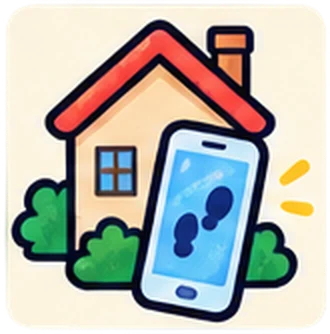
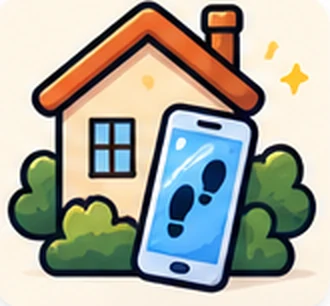
MiniMystery: nieuwe artwork en wat volwassener stijl (navy/goud, rustiger kaarten)
Claude-Session: https://claude.ai/code/session_01HiSgNEAJNe1VAC56DkNSFs

diff --git a/minimystery/shared/hub.css b/minimystery/shared/hub.css
@@ -1,102 +1,100 @@
-/* MiniMystery – hub (NL + EN). Zonnig, rond, kinderboek. */
-:root{--ink:#1f2a44;--cream:#fff7e8;--sun:#ffc21a;--coral:#ff6b6b;--mint:#3ccfa8;--sky:#4fb3ff;--grape:#8b5cf6;--card:#ffffff;--soft:#5b6680}
+/* MiniMystery – hub (NL + EN). Warm en zonnig, maar wat volwassener: navy, goud, blauw en violet. */
+:root{--ink:#1b2550;--navy:#22327a;--cream:#fbf6ec;--gold:#f5b800;--sky:#3a9be6;--violet:#7a5cd6;--coral:#e0584f;--card:#fff;--soft:#5a6385;--line:rgba(27,37,80,.14)}
 *{box-sizing:border-box}
-html{-webkit-text-size-adjust:100%}
-body{margin:0;background:var(--cream) url(../assets/pattern.webp) center top/420px repeat;color:var(--ink);font:500 17px/1.5 Nunito,system-ui,sans-serif;overflow-x:hidden}
+html{-webkit-text-size-adjust:100%;scroll-behavior:smooth}
+body{margin:0;background:linear-gradient(rgba(251,246,236,.86),rgba(251,246,236,.86)),var(--cream) url(../assets/pattern.webp) center top/380px repeat;color:var(--ink);font:500 17px/1.55 Nunito,system-ui,sans-serif;overflow-x:hidden}
 a{color:inherit}
 h1,h2,h3,.btn,.pill,.chip{font-family:Fredoka,Nunito,system-ui,sans-serif}
 .skip{position:absolute;left:-999px}.skip:focus{left:16px;top:16px;z-index:9;background:#fff;padding:8px 12px;border-radius:10px}
 
 /* bovenbalk */
 .top{position:absolute;inset:0 0 auto;z-index:3;display:flex;justify-content:flex-end;align-items:center;padding:14px 16px;max-width:1100px;margin:0 auto}
-.top img{height:44px;width:auto;filter:drop-shadow(0 2px 0 rgba(31,42,68,.15))}
-.pill{appearance:none;border:2.5px solid var(--ink);background:#fff;color:var(--ink);border-radius:999px;padding:6px 14px;font-weight:600;font-size:15px;text-decoration:none;cursor:pointer;box-shadow:0 3px 0 var(--ink)}
-.pill:active{transform:translateY(2px);box-shadow:0 1px 0 var(--ink)}
+.pill{appearance:none;border:2px solid var(--ink);background:rgba(255,255,255,.92);color:var(--ink);border-radius:999px;padding:5px 14px;font-weight:600;font-size:15px;text-decoration:none;cursor:pointer}
+.pill:hover{background:#fff}
 
 /* hero */
-.hero{position:relative;min-height:min(92vh,760px);display:flex;flex-direction:column;justify-content:flex-end;overflow:hidden;border-bottom:4px solid var(--ink)}
-.hero picture,.hero picture img{position:absolute;inset:0;width:100%;height:100%;object-fit:cover;object-position:60% 40%}
-.hero::after{content:"";position:absolute;inset:0;background:linear-gradient(180deg,rgba(255,247,232,0) 45%,rgba(255,247,232,.6) 80%,var(--cream) 100%)}
-.hero .in{position:relative;z-index:2;max-width:1100px;width:100%;margin:0 auto;padding:0 16px 34px;text-align:center}
-.hero .card{background:rgba(255,247,232,.94);border:3px solid var(--ink);border-radius:28px;padding:16px 16px 18px;box-shadow:0 6px 0 var(--ink);max-width:560px;margin:0 auto}
-.hero .logo{width:min(72vw,360px);height:auto;display:block;margin:0 auto 6px;filter:drop-shadow(0 4px 0 rgba(31,42,68,.18));animation:bob 4s ease-in-out infinite}
-.hero h1{font-size:clamp(26px,5.6vw,42px);line-height:1.12;margin:6px auto 8px;max-width:22ch}
-.hero p.lead{margin:0 auto 18px;max-width:40ch;font-size:18px;color:#2e3a58}
-@keyframes bob{50%{transform:translateY(-6px) rotate(-1deg)}}
-@media (min-width:860px){.hero{min-height:620px}.hero .in{text-align:left;padding-bottom:56px}.hero .card{margin:0}.hero .prof{justify-content:flex-start}.hero .logo{margin:0 0 6px}.hero h1,.hero p.lead{margin-left:0}
-  .hero::after{background:linear-gradient(180deg,rgba(255,247,232,0) 70%,var(--cream) 100%)}}
+.hero{position:relative;min-height:min(92vh,760px);display:flex;flex-direction:column;justify-content:flex-end;overflow:hidden}
+.hero picture,.hero picture img{position:absolute;inset:0;width:100%;height:100%;object-fit:cover;object-position:55% 35%}
+.hero::after{content:"";position:absolute;inset:0;background:linear-gradient(180deg,rgba(251,246,236,0) 50%,rgba(251,246,236,.5) 82%,var(--cream) 100%)}
+.hero .in{position:relative;z-index:2;max-width:1100px;width:100%;margin:0 auto;padding:0 16px 30px;text-align:center}
+.hero .card{background:rgba(255,255,255,.94);border:2px solid var(--line);border-radius:22px;padding:18px 18px 20px;box-shadow:0 18px 40px -18px rgba(27,37,80,.45);max-width:540px;margin:0 auto;backdrop-filter:blur(6px)}
+.hero .logo{width:min(70vw,330px);height:auto;display:block;margin:0 auto 4px}
+.hero h1{font-weight:600;font-size:clamp(25px,5.2vw,38px);line-height:1.15;margin:4px auto 8px;max-width:22ch;color:var(--navy)}
+.hero p.lead{margin:0 auto 18px;max-width:42ch;font-size:17.5px;color:#39436a}
+@media (min-width:860px){.hero{min-height:640px}.hero .in{text-align:left;padding-bottom:60px}.hero .card{margin:0}.hero .logo{margin:0 0 4px}.hero h1,.hero p.lead{margin-left:0}.hero .prof{justify-content:flex-start}
+  .hero::after{background:linear-gradient(180deg,rgba(251,246,236,0) 72%,var(--cream) 100%)}}
 
-.btn{display:inline-flex;align-items:center;justify-content:center;gap:8px;appearance:none;border:3px solid var(--ink);background:var(--sun);color:var(--ink);border-radius:18px;padding:13px 22px;font-weight:700;font-size:18px;text-decoration:none;cursor:pointer;box-shadow:0 5px 0 var(--ink);transition:transform .08s}
-.btn:active{transform:translateY(3px);box-shadow:0 2px 0 var(--ink)}
+.btn{display:inline-flex;align-items:center;justify-content:center;gap:8px;appearance:none;border:2px solid var(--ink);background:var(--gold);color:var(--ink);border-radius:14px;padding:12px 22px;font-weight:600;font-size:17.5px;text-decoration:none;cursor:pointer;box-shadow:0 3px 0 var(--ink);transition:transform .08s,background .15s}
+.btn:hover{background:#ffc823}
+.btn:active{transform:translateY(2px);box-shadow:0 1px 0 var(--ink)}
 .btn.ghost{background:#fff}
 .btn.dk{width:100%;margin-top:10px}
-.btn:focus-visible,.pill:focus-visible{outline:3px dashed var(--grape);outline-offset:3px}
+.btn:focus-visible,.pill:focus-visible,.more:focus-visible{outline:3px solid var(--sky);outline-offset:3px}
 
 main{max-width:1100px;margin:0 auto;padding:0 16px}
-.sec{padding:34px 0 8px}
-.sec>h2{font-size:clamp(24px,4.6vw,32px);margin:0 auto 8px;text-align:center;width:fit-content;background:var(--sun);border:3px solid var(--ink);border-radius:999px;padding:4px 22px;box-shadow:0 4px 0 var(--ink)}
-.sec>p.sub{margin:0 auto 22px;text-align:center;color:var(--ink);max-width:46ch;background:rgba(255,247,232,.92);border-radius:14px;padding:4px 10px}
-.status{background:rgba(255,247,232,.92);border-radius:12px;width:fit-content;margin-left:auto!important;margin-right:auto!important;padding:2px 10px}
-.foot p{background:rgba(255,247,232,.92);border-radius:12px;display:inline-block;padding:2px 10px}
+.sec{padding:40px 0 8px}
+.sec>.kick{display:block;text-align:center;font:600 13px Fredoka,sans-serif;letter-spacing:.14em;text-transform:uppercase;color:var(--violet);margin:0 0 4px}
+.sec>h2{font-weight:600;font-size:clamp(25px,4.4vw,32px);margin:0 auto 6px;text-align:center;color:var(--navy)}
+.sec>p.sub{margin:0 auto 24px;text-align:center;color:var(--soft);max-width:46ch}
 
 /* profiel */
-.prof{display:flex;flex-wrap:wrap;justify-content:center;gap:8px;margin:18px 0 0}
-.chip{display:inline-flex;align-items:center;gap:6px;background:#fff;border:2.5px solid var(--ink);border-radius:999px;padding:5px 12px;font-weight:600;font-size:15px}
-.chip b{color:var(--grape)}
+.prof{display:flex;flex-wrap:wrap;justify-content:center;gap:8px;margin:16px 0 0}
+.chip{display:inline-flex;align-items:center;gap:6px;background:var(--cream);border:1.5px solid var(--line);border-radius:999px;padding:4px 12px;font-weight:500;font-size:14.5px;color:var(--soft)}
+.chip b{color:var(--navy);font-weight:600}
 
 /* zaken */
 .cases{display:grid;gap:22px;grid-template-columns:1fr}
 @media (min-width:720px){.cases{grid-template-columns:repeat(3,1fr)}}
-.case{--c:var(--sun);position:relative;background:var(--card);border:3px solid var(--ink);border-radius:26px;padding:20px 18px 18px;box-shadow:0 7px 0 var(--ink);display:flex;flex-direction:column;text-align:center}
-.case::before{content:"";position:absolute;inset:0 0 auto;height:92px;background:var(--c);border-radius:23px 23px 0 0;border-bottom:3px solid var(--ink)}
-.case .cov{position:relative;width:150px;height:150px;border-radius:50%;border:4px solid var(--ink);margin:4px auto 12px;object-fit:cover;background:#fff;box-shadow:0 5px 0 rgba(31,42,68,.25)}
-.case:hover .cov{animation:wig .5s ease}
-@keyframes wig{30%{transform:rotate(-5deg) scale(1.03)}70%{transform:rotate(4deg) scale(1.03)}}
-.case h3{font-size:23px;line-height:1.15;margin:0 0 6px}
-.case .tag{margin:0 0 10px;font-weight:700;color:#2e3a58}
-.case .desc{margin:0 0 14px;color:var(--soft);font-size:15.5px;flex:1}
-.case .meta{display:flex;flex-wrap:wrap;justify-content:center;gap:6px;margin:0 0 14px;padding:0;list-style:none}
-.case .meta li{font:600 13.5px Fredoka,sans-serif;background:var(--cream);border:2px solid var(--ink);border-radius:999px;padding:2px 10px}
-.case .meta li.star{background:#fff3c4}
-.case .btn{width:100%}
-.case .more{appearance:none;background:none;border:0;color:var(--soft);font:600 14px Nunito,sans-serif;text-decoration:underline;cursor:pointer;margin:0 auto 10px;padding:2px}
+.case{--c:var(--gold);position:relative;background:var(--card);border:2px solid var(--line);border-radius:22px;padding:18px 18px 18px;box-shadow:0 14px 30px -20px rgba(27,37,80,.55);display:flex;flex-direction:column;text-align:center;overflow:hidden;transition:transform .2s,box-shadow .2s}
+.case:hover{transform:translateY(-3px);box-shadow:0 20px 36px -20px rgba(27,37,80,.6)}
+.case::before{content:"";position:absolute;inset:0 0 auto;height:84px;background:var(--c)}
+.case .cov{position:relative;width:140px;height:140px;border-radius:50%;border:4px solid #fff;margin:6px auto 12px;object-fit:cover;background:#fff;box-shadow:0 6px 16px -6px rgba(27,37,80,.5)}
+.case h3{font-weight:600;font-size:22px;line-height:1.2;margin:0 0 6px;color:var(--navy)}
+.case .tag{margin:0 0 12px;font-weight:600;color:#39436a;font-size:16px}
+.case .desc{margin:0 0 14px;color:var(--soft);font-size:15px;flex:1;text-align:left}
+.case .meta{display:flex;flex-wrap:wrap;justify-content:center;gap:6px;margin:0 0 12px;padding:0;list-style:none}
+.case .meta li{font:500 13px Nunito,sans-serif;background:var(--cream);border:1.5px solid var(--line);border-radius:999px;padding:2px 10px;color:var(--soft)}
+.case .meta li.star{color:#9a6b00;background:#fff4d1}
+.case .btn{width:100%;margin-top:auto}
+.case .more{appearance:none;background:none;border:0;color:var(--soft);font:600 14px Nunito,sans-serif;text-decoration:underline;text-underline-offset:3px;cursor:pointer;margin:0 auto 12px;padding:2px}
 .case .desc[hidden]{display:none}
 
 /* hoe werkt het */
 .how{display:grid;grid-template-columns:repeat(2,1fr);gap:14px;list-style:none;padding:0;margin:0}
 @media (min-width:860px){.how{grid-template-columns:repeat(4,1fr)}}
-.how li{background:#fff;border:3px solid var(--ink);border-radius:22px;padding:14px 12px 16px;text-align:center;box-shadow:0 5px 0 var(--ink)}
-.how img{width:88px;height:88px;object-fit:contain;display:block;margin:0 auto 6px}
-.how b{display:block;font:700 18px Fredoka,sans-serif;margin-bottom:4px}
-.how span{font-size:14.5px;color:var(--soft);line-height:1.4;display:block}
+.how li{background:#fff;border:2px solid var(--line);border-radius:20px;padding:14px 12px 16px;text-align:center}
+.how img{width:92px;height:auto;display:block;margin:0 auto 8px;border-radius:14px}
+.how b{display:block;font:600 18px Fredoka,sans-serif;margin-bottom:4px;color:var(--navy)}
+.how span{font-size:14.5px;color:var(--soft);line-height:1.45;display:block}
 
 /* tips voor ouders */
-.tips{background:#fff;border:3px solid var(--ink);border-radius:24px;padding:18px 20px;box-shadow:0 5px 0 var(--ink);margin:6px 0 0}
-.tips ul{margin:0;padding-left:20px}.tips li{margin:6px 0}
+.tips{background:#fff;border:2px solid var(--line);border-left:6px solid var(--gold);border-radius:18px;padding:16px 20px;margin:16px 0 0}
+.tips ul{margin:0;padding-left:20px;color:#39436a}.tips li{margin:6px 0}
 
 /* pro */
-.probox{background:linear-gradient(160deg,#fff 0,#fff 55%,#efe7ff 100%);border:3px solid var(--ink);border-radius:26px;padding:20px;box-shadow:0 7px 0 var(--ink);max-width:620px;margin:0 auto}
-.eyebrow{font:700 13px Fredoka,sans-serif;letter-spacing:.08em;text-transform:uppercase;color:var(--grape);margin:10px 0 4px}
-.probox h2,.paper h2{font-size:24px;margin:0 0 8px}
-.probox p,.paper p{margin:0 0 12px}
-.inp{width:100%;font:700 18px Fredoka,monospace;letter-spacing:.06em;text-transform:uppercase;border:3px solid var(--ink);border-radius:14px;padding:11px 14px;background:var(--cream);color:var(--ink)}
+.probox{background:#fff;border:2px solid var(--line);border-radius:22px;padding:20px;box-shadow:0 14px 30px -20px rgba(27,37,80,.55);max-width:600px;margin:0 auto}
+.eyebrow{font:600 13px Fredoka,sans-serif;letter-spacing:.12em;text-transform:uppercase;color:var(--violet);margin:10px 0 4px}
+.probox h2,.paper h2{font-weight:600;font-size:23px;margin:0 0 8px;color:var(--navy)}
+.probox p,.paper p{margin:0 0 12px;color:#39436a}
+.inp{width:100%;font:600 18px Fredoka,monospace;letter-spacing:.06em;text-transform:uppercase;border:2px solid var(--line);border-radius:12px;padding:11px 14px;background:var(--cream);color:var(--ink)}
+.inp:focus{outline:none;border-color:var(--sky)}
 .note{font-size:14.5px;color:var(--soft)}
-.status{text-align:center;margin:12px 0 0}
+.status{text-align:center;margin:14px 0 0}
 
 /* voet */
-.foot{max-width:1100px;margin:40px auto 0;padding:26px 16px 40px;text-align:center;border-top:3px dashed rgba(31,42,68,.25)}
-.foot img{width:64px;height:auto}
+.foot{max-width:1100px;margin:46px auto 0;padding:28px 16px 40px;text-align:center;border-top:1.5px solid var(--line)}
+.foot img{width:76px;height:auto}
 .foot p{margin:8px 0;color:var(--soft);font-size:15px}
-.foot a{font-weight:700}
-.foot .links{display:flex;justify-content:center;flex-wrap:wrap;gap:8px 18px;margin-top:12px}
-.foot button{appearance:none;background:none;border:0;font:700 15px Nunito,sans-serif;color:var(--ink);text-decoration:underline;cursor:pointer}
-.adult{display:inline-flex;align-items:center;gap:8px;margin-top:6px;background:#1f2a44;color:#fff7e8;border-radius:999px;padding:8px 16px;text-decoration:none;font:600 15px Fredoka,sans-serif}
+.foot a{font-weight:600}
+.foot .links{display:flex;justify-content:center;flex-wrap:wrap;gap:8px 18px;margin-top:14px}
+.foot button{appearance:none;background:none;border:0;font:600 15px Nunito,sans-serif;color:var(--ink);text-decoration:underline;cursor:pointer}
+.adult{display:inline-flex;align-items:center;gap:8px;margin-top:6px;background:var(--ink);color:var(--cream);border-radius:999px;padding:8px 16px;text-decoration:none;font:500 15px Fredoka,sans-serif}
 
 /* vel */
-.sheet{position:fixed;inset:0;z-index:20;background:rgba(31,42,68,.55);display:flex;align-items:flex-end;justify-content:center;padding:0}
+.sheet{position:fixed;inset:0;z-index:20;background:rgba(27,37,80,.5);display:flex;align-items:flex-end;justify-content:center}
 .sheet[hidden]{display:none}
-.paper{background:#fff;width:100%;max-width:560px;max-height:88vh;overflow:auto;border:3px solid var(--ink);border-bottom:0;border-radius:26px 26px 0 0;padding:20px 20px calc(20px + env(safe-area-inset-bottom))}
-@media (min-width:600px){.sheet{align-items:center;padding:16px}.paper{border-bottom:3px solid var(--ink);border-radius:26px}}
-#toast{position:fixed;left:50%;bottom:22px;transform:translateX(-50%);z-index:30;background:var(--ink);color:#fff;border-radius:16px;padding:10px 16px;font-weight:700;max-width:calc(100% - 32px)}
+.paper{background:#fff;width:100%;max-width:560px;max-height:88vh;overflow:auto;border-radius:22px 22px 0 0;padding:20px 20px calc(20px + env(safe-area-inset-bottom))}
+@media (min-width:600px){.sheet{align-items:center;padding:16px}.paper{border-radius:22px}}
+#toast{position:fixed;left:50%;bottom:22px;transform:translateX(-50%);z-index:30;background:var(--ink);color:#fff;border-radius:14px;padding:10px 16px;font-weight:600;max-width:calc(100% - 32px)}
 #toast[hidden]{display:none}
-@media (prefers-reduced-motion:reduce){.hero .logo,.case:hover .cov{animation:none}}
+@media (prefers-reduced-motion:reduce){.case,.case:hover{transition:none;transform:none}}

diff --git a/minimystery/shared/catalog.js b/minimystery/shared/catalog.js
@@ -3,6 +3,6 @@
    access: "free" | "trial" (eerste zaak gratis, daarna Pro) | "pro" · theme = accentkleur van de tegel op de hub */
 window.MW_CATALOG={
   games:[
-  { "id": "sj", "status": "live", "access": "trial", "minutes": "45–75", "km": "0–2", "group": false, "en": { "slug": "en/the-light-thief.html", "title": "The Light Thief", "tag": "He stole every light in the street. Catch him, collect eight lights, see who he is.", "desc": "At 03:03 the lights went out and the present was gone. The Light Thief hides at eight places nearby: catch him with photos, group poses and catching games and he drops a light out of fright. Eight lights in your lantern show his face. Then into his hideout to find the present. With a map in your own streets, without one, or indoors." }, "nl": { "slug": "de-lichtjesdief.html", "title": "De Lichtjesdief", "tag": "Hij stal alle lichtjes van de straat. Vang hem, verzamel er acht, zie wie hij is.", "desc": "Om 03:03 gingen de lichten uit en was het cadeau weg. De Lichtjesdief zit op acht plekken in de buurt: vang hem met foto's, groepsposes en vangspellen en hij laat van schrik een lichtje vallen. Acht lichtjes in je lantaarn tonen zijn gezicht. Dan zijn schuilplaats in en het cadeau vinden. Met kaart in je eigen buurt, zonder kaart, of binnen." }, "theme": "#8b5cf6" }, { "id": "pp", "status": "live", "access": "trial", "minutes": "40–60", "km": "0–2", "group": false, "en": { "slug": "en/the-secret-of-pony-fluff.html", "title": "The Secret of Pony Fluff", "tag": "Pony Fluff is gone. Five animal witnesses, one has it wrong. Where is she?", "desc": "Fluff's stable is empty and the gate was open. The group follows eight hoof prints: finding tracks in the sand, the binoculars, grooming, counting apples, the halter colours, the crow's shinies, petting Kato the cat and crossing the meadow. No reading needed: the phone reads aloud. Traces are true, one animal gets it wrong (or lies, at Rider level). Then choose where Fluff is, hear the secret of the open gate, and get a Rider's Passport with the group's own photos. With a map, without one, or indoors." }, "nl": { "slug": "het-geheim-van-pony-pluis.html", "title": "Het Geheim van Pony Pluis", "tag": "Pony Pluis is weg. Vijf dieren-getuigen, één zit ernaast. Waar is ze?", "desc": "De stal van Pluis is leeg en het hek stond open. De groep volgt acht hoefafdrukken: sporen zoeken in het zand, de verrekijker, roskammen, appels tellen, de halsterkleuren, de glimmertjes van de kraai, kat Kato aaien en de wei door. Lezen hoeft niet: de telefoon leest voor. Sporen zijn waar, één dier zit ernaast (of liegt, op niveau Ruiter). Dan kiezen waar Pluis is, het geheim van het open hek horen en een Ruiterpaspoort met de eigen foto's van de groep. Met kaart, zonder kaart of binnen." }, "theme": "#ff6b6b" }, { "id": "ag", "status": "live", "access": "trial", "minutes": "40–60", "km": "0–2", "group": false, "en": { "slug": "en/officer-for-a-day.html", "title": "Officer for a Day", "tag": "Playing police, age 6 and up. The Balloon Bandit has escaped.", "desc": "Sworn in as officers, the group follows eight leads: fingerprints, a composite sketch, footprints, the siren, binoculars, the radio, a chase and a crowd. No reading needed: the phone reads aloud. Evidence is true, one witness lies. Then the line-up in 3D, handcuffs, a police diploma and a WANTED poster with the group's own photos. With a map, without one, or indoors." }, "nl": { "slug": "agent-voor-een-dag.html", "title": "Agent voor Eén Dag", "tag": "Politie spelen, vanaf 6 jaar. De Ballonnenboef is ontsnapt.", "desc": "Beëdigd als agenten volgt de groep acht sporen: vingerafdruk, compositietekening, voetspoor, sirene, verrekijker, portofoon, achtervolging en de drukte. Lezen hoeft niet: de telefoon leest voor. Bewijs is waar, één getuige liegt. Dan de confrontatie in 3D, handboeien, een politiediploma en een GEZOCHT-poster met de eigen foto's van de groep. Met kaart, zonder kaart of binnen." }, "theme": "#4fb3ff" }
+  { "id": "sj", "status": "live", "access": "trial", "minutes": "45–75", "km": "0–2", "group": false, "en": { "slug": "en/the-light-thief.html", "title": "The Light Thief", "tag": "He stole every light in the street. Catch him, collect eight lights, see who he is.", "desc": "At 03:03 the lights went out and the present was gone. The Light Thief hides at eight places nearby: catch him with photos, group poses and catching games and he drops a light out of fright. Eight lights in your lantern show his face. Then into his hideout to find the present. With a map in your own streets, without one, or indoors." }, "nl": { "slug": "de-lichtjesdief.html", "title": "De Lichtjesdief", "tag": "Hij stal alle lichtjes van de straat. Vang hem, verzamel er acht, zie wie hij is.", "desc": "Om 03:03 gingen de lichten uit en was het cadeau weg. De Lichtjesdief zit op acht plekken in de buurt: vang hem met foto's, groepsposes en vangspellen en hij laat van schrik een lichtje vallen. Acht lichtjes in je lantaarn tonen zijn gezicht. Dan zijn schuilplaats in en het cadeau vinden. Met kaart in je eigen buurt, zonder kaart, of binnen." }, "theme": "#5b44b8" }, { "id": "pp", "status": "live", "access": "trial", "minutes": "40–60", "km": "0–2", "group": false, "en": { "slug": "en/the-secret-of-pony-fluff.html", "title": "The Secret of Pony Fluff", "tag": "Pony Fluff is gone. Five animal witnesses, one has it wrong. Where is she?", "desc": "Fluff's stable is empty and the gate was open. The group follows eight hoof prints: finding tracks in the sand, the binoculars, grooming, counting apples, the halter colours, the crow's shinies, petting Kato the cat and crossing the meadow. No reading needed: the phone reads aloud. Traces are true, one animal gets it wrong (or lies, at Rider level). Then choose where Fluff is, hear the secret of the open gate, and get a Rider's Passport with the group's own photos. With a map, without one, or indoors." }, "nl": { "slug": "het-geheim-van-pony-pluis.html", "title": "Het Geheim van Pony Pluis", "tag": "Pony Pluis is weg. Vijf dieren-getuigen, één zit ernaast. Waar is ze?", "desc": "De stal van Pluis is leeg en het hek stond open. De groep volgt acht hoefafdrukken: sporen zoeken in het zand, de verrekijker, roskammen, appels tellen, de halsterkleuren, de glimmertjes van de kraai, kat Kato aaien en de wei door. Lezen hoeft niet: de telefoon leest voor. Sporen zijn waar, één dier zit ernaast (of liegt, op niveau Ruiter). Dan kiezen waar Pluis is, het geheim van het open hek horen en een Ruiterpaspoort met de eigen foto's van de groep. Met kaart, zonder kaart of binnen." }, "theme": "#d9574f" }, { "id": "ag", "status": "live", "access": "trial", "minutes": "40–60", "km": "0–2", "group": false, "en": { "slug": "en/officer-for-a-day.html", "title": "Officer for a Day", "tag": "Playing police, age 6 and up. The Balloon Bandit has escaped.", "desc": "Sworn in as officers, the group follows eight leads: fingerprints, a composite sketch, footprints, the siren, binoculars, the radio, a chase and a crowd. No reading needed: the phone reads aloud. Evidence is true, one witness lies. Then the line-up in 3D, handcuffs, a police diploma and a WANTED poster with the group's own photos. With a map, without one, or indoors." }, "nl": { "slug": "agent-voor-een-dag.html", "title": "Agent voor Eén Dag", "tag": "Politie spelen, vanaf 6 jaar. De Ballonnenboef is ontsnapt.", "desc": "Beëdigd als agenten volgt de groep acht sporen: vingerafdruk, compositietekening, voetspoor, sirene, verrekijker, portofoon, achtervolging en de drukte. Lezen hoeft niet: de telefoon leest voor. Bewijs is waar, één getuige liegt. Dan de confrontatie in 3D, handboeien, een politiediploma en een GEZOCHT-poster met de eigen foto's van de groep. Met kaart, zonder kaart of binnen." }, "theme": "#2f72d6" }
  ]
 };

diff --git a/minimystery/index.html b/minimystery/index.html
@@ -20,20 +20,20 @@
 <meta property="og:image" content="https://www.minimystery.nl/assets/og-image.jpg">
 <meta property="og:locale" content="nl_NL">
 <meta name="twitter:card" content="summary_large_image">
-<meta name="theme-color" content="#ffc21a">
+<meta name="theme-color" content="#f5b800">
 <link rel="preload" as="image" href="assets/hero.webp" media="(max-width:859px)">
 <link rel="preload" as="image" href="assets/hero-wide.webp" media="(min-width:860px)">
 <link rel="stylesheet" href="https://fonts.googleapis.com/css2?family=Fredoka:wght@500;600;700&family=Nunito:wght@500;700&display=swap">
-<link rel="stylesheet" href="shared/hub.css?v=2">
+<link rel="stylesheet" href="shared/hub.css?v=3">
 <script type="application/ld+json">{"@context":"https://schema.org","@type":"WebSite","name":"MiniMystery","url":"https://www.minimystery.nl/","inLanguage":"nl","description":"Speurtochten voor kinderfeestjes: een dief vangen, een pony terugvinden of een dag agent zijn. Puzzels op de telefoon, foto-opdrachten en een diploma om te printen. Met kaart in je eigen buurt, zonder kaart of binnen. Eerste zaak gratis."}</script>
 </head>
 <body>
 <a class="skip" href="#cases">Kies je zaak</a>
 <header class="hero">
-  <picture><source media="(min-width:860px)" srcset="assets/hero-wide.webp"><img src="assets/hero.webp" alt="" width="800" height="854"></picture>
+  <picture><source media="(min-width:860px)" srcset="assets/hero-wide.webp"><img src="assets/hero.webp" alt="" width="786" height="984"></picture>
   <div class="top"><a class="pill" id="lang" href="en/" hreflang="en">English</a></div>
   <div class="in"><div class="card">
-    <img class="logo" src="assets/logo-wide.webp" alt="MiniMystery" width="1190" height="326">
+    <img class="logo" src="assets/logo-wide.webp" alt="MiniMystery" width="1222" height="378">
     <h1>Een speurtocht voor het kinderfeestje, in je eigen straat</h1>
     <p class="lead">Kies een zaak, pak één telefoon en ga met het groepje op pad. Puzzels, foto-opdrachten en aan het eind een diploma met jullie eigen foto's.</p>
     <a class="btn" href="#cases">Kies een zaak ↓</a>
@@ -41,13 +41,13 @@
   </div></div>
 </header>
 <main>
-  <section class="sec"><h2>Kies je zaak</h2><p class="sub">Drie mysteries, elk met een eigen verhaal. Lezen hoeft niet: de telefoon leest voor.</p><div class="cases" id="cases"></div><p class="note status" id="status"></p></section>
-  <section class="sec"><h2>Zo werkt het</h2><p class="sub">Geen app, geen account. Gewoon openen in de browser.</p><ol class="how"><li><img src="assets/how-map.webp" alt="" width="160" height="160" loading="lazy"><b>Met kaart</b><span>De zaak legt acht plekken in jullie eigen buurt. Loop erheen, daar wacht een opdracht.</span></li><li><img src="assets/how-camera.webp" alt="" width="160" height="160" loading="lazy"><b>Foto's & puzzels</b><span>Groepsfoto's, zoekplaatjes en spelletjes op het scherm. Iedereen doet mee.</span></li><li><img src="assets/how-home.webp" alt="" width="160" height="160" loading="lazy"><b>Of binnen</b><span>Geen zin om naar buiten? Speel zonder kaart of gewoon in huis.</span></li><li><img src="assets/how-diploma.webp" alt="" width="160" height="160" loading="lazy"><b>Diploma</b><span>Zaak opgelost? Je krijgt een diploma met jullie foto's, als PDF om te printen.</span></li></ol>
+  <section class="sec"><span class="kick">De zaken</span><h2>Kies je zaak</h2><p class="sub">Drie mysteries, elk met een eigen verhaal. Lezen hoeft niet: de telefoon leest voor.</p><div class="cases" id="cases"></div><p class="note status" id="status"></p></section>
+  <section class="sec"><span class="kick">Spelregels</span><h2>Zo werkt het</h2><p class="sub">Geen app, geen account. Gewoon openen in de browser.</p><ol class="how"><li><img src="assets/how-map.webp" alt="" width="160" height="160" loading="lazy"><b>Met kaart</b><span>De zaak legt acht plekken in jullie eigen buurt. Loop erheen, daar wacht een opdracht.</span></li><li><img src="assets/how-camera.webp" alt="" width="160" height="160" loading="lazy"><b>Foto's & puzzels</b><span>Groepsfoto's, zoekplaatjes en spelletjes op het scherm. Iedereen doet mee.</span></li><li><img src="assets/how-home.webp" alt="" width="160" height="160" loading="lazy"><b>Of binnen</b><span>Geen zin om naar buiten? Speel zonder kaart of gewoon in huis.</span></li><li><img src="assets/how-diploma.webp" alt="" width="160" height="160" loading="lazy"><b>Diploma</b><span>Zaak opgelost? Je krijgt een diploma met jullie foto's, als PDF om te printen.</span></li></ol>
     <div class="tips"><div class="eyebrow">Tips voor de volwassene</div><ul><li>Eén telefoon per groepje is genoeg. Met de zaakcode spelen meer telefoons dezelfde zaak.</li><li>Lees de sporen hardop voor aan de hele groep: dat is het leukste moment.</li><li>Buiten blijf je op de stoep. Een volwassene loopt altijd mee.</li><li>Reken op 40 tot 75 minuten, inclusief taart halverwege.</li></ul></div></section>
-  <section class="sec" id="proSec"><h2>Pro en groepspas</h2><div class="probox" id="proBox"></div></section>
+  <section class="sec" id="proSec"><span class="kick">Meer spelen</span><h2>Pro en groepspas</h2><div class="probox" id="proBox"></div></section>
 </main>
 <footer class="foot">
-  <img src="assets/logo-mark-wink.webp" alt="" width="602" height="582" loading="lazy">
+  <img src="assets/logo-mark-wink.webp" alt="" width="576" height="472" loading="lazy">
   <p>Gemaakt in Nederland, met liefde voor speurneuzen.</p>
   <a class="adult" href="https://www.moordwandeling.nl/nl/">Voor volwassenen: Moordwandeling →</a>
   <div class="links"><a href="mailto:kellievandekerkhof@gmail.com">Contact</a><button type="button" id="bPriv">Privacy</button></div>
@@ -55,7 +55,7 @@
 <div class="sheet" id="sheet" hidden><div class="paper" id="sheetBody" role="dialog" aria-modal="true"></div></div>
 <div id="toast" hidden role="status"></div>
 <script src="shared/platform.js?v=mm1"></script>
-<script src="shared/catalog.js?v=mm1"></script>
+<script src="shared/catalog.js?v=mm2"></script>
 <script src="shared/hub.js?v=1"></script>
 </body>
 </html>

diff --git a/minimystery/en/index.html b/minimystery/en/index.html
@@ -19,20 +19,20 @@
 <meta property="og:image" content="https://www.minimystery.nl/assets/og-image.jpg">
 <meta property="og:locale" content="en_GB">
 <meta name="twitter:card" content="summary_large_image">
-<meta name="theme-color" content="#ffc21a">
+<meta name="theme-color" content="#f5b800">
 <link rel="preload" as="image" href="../assets/hero.webp" media="(max-width:859px)">
 <link rel="preload" as="image" href="../assets/hero-wide.webp" media="(min-width:860px)">
 <link rel="stylesheet" href="https://fonts.googleapis.com/css2?family=Fredoka:wght@500;600;700&family=Nunito:wght@500;700&display=swap">
-<link rel="stylesheet" href="../shared/hub.css?v=2">
+<link rel="stylesheet" href="../shared/hub.css?v=3">
 <script type="application/ld+json">{"@context":"https://schema.org","@type":"WebSite","name":"MiniMystery","url":"https://www.minimystery.nl/en/","inLanguage":"en","description":"Treasure-hunt mysteries for kids' parties: catch a thief, find a lost pony or be a police officer for a day. Puzzles on the phone, photo tasks and a diploma to print. With a map in your own streets, without one, or indoors. First case free."}</script>
 </head>
 <body>
 <a class="skip" href="#cases">Pick your case</a>
 <header class="hero">
-  <picture><source media="(min-width:860px)" srcset="../assets/hero-wide.webp"><img src="../assets/hero.webp" alt="" width="800" height="854"></picture>
+  <picture><source media="(min-width:860px)" srcset="../assets/hero-wide.webp"><img src="../assets/hero.webp" alt="" width="786" height="984"></picture>
   <div class="top"><a class="pill" id="lang" href="../" hreflang="nl">Nederlands</a></div>
   <div class="in"><div class="card">
-    <img class="logo" src="../assets/logo-wide.webp" alt="MiniMystery" width="1190" height="326">
+    <img class="logo" src="../assets/logo-wide.webp" alt="MiniMystery" width="1222" height="378">
     <h1>A mystery hunt for the birthday party, in your own street</h1>
     <p class="lead">Pick a case, grab one phone and head out with the group. Puzzles, photo tasks and, at the end, a diploma with your own photos.</p>
     <a class="btn" href="#cases">Pick a case ↓</a>
@@ -40,13 +40,13 @@
   </div></div>
 </header>
 <main>
-  <section class="sec"><h2>Pick your case</h2><p class="sub">Three mysteries, each with its own story. No reading needed: the phone reads aloud.</p><div class="cases" id="cases"></div><p class="note status" id="status"></p></section>
-  <section class="sec"><h2>How it works</h2><p class="sub">No app, no account. Just open it in the browser.</p><ol class="how"><li><img src="../assets/how-map.webp" alt="" width="160" height="160" loading="lazy"><b>With a map</b><span>The case places eight spots in your own neighbourhood. Walk there; a task is waiting.</span></li><li><img src="../assets/how-camera.webp" alt="" width="160" height="160" loading="lazy"><b>Photos & puzzles</b><span>Group photos, spot-the-difference and games on screen. Everyone joins in.</span></li><li><img src="../assets/how-home.webp" alt="" width="160" height="160" loading="lazy"><b>Or indoors</b><span>Rather stay in? Play without a map or simply at home.</span></li><li><img src="../assets/how-diploma.webp" alt="" width="160" height="160" loading="lazy"><b>Diploma</b><span>Case solved? You get a diploma with your photos, as a PDF to print.</span></li></ol>
+  <section class="sec"><span class="kick">The cases</span><h2>Pick your case</h2><p class="sub">Three mysteries, each with its own story. No reading needed: the phone reads aloud.</p><div class="cases" id="cases"></div><p class="note status" id="status"></p></section>
+  <section class="sec"><span class="kick">How to play</span><h2>How it works</h2><p class="sub">No app, no account. Just open it in the browser.</p><ol class="how"><li><img src="../assets/how-map.webp" alt="" width="160" height="160" loading="lazy"><b>With a map</b><span>The case places eight spots in your own neighbourhood. Walk there; a task is waiting.</span></li><li><img src="../assets/how-camera.webp" alt="" width="160" height="160" loading="lazy"><b>Photos & puzzles</b><span>Group photos, spot-the-difference and games on screen. Everyone joins in.</span></li><li><img src="../assets/how-home.webp" alt="" width="160" height="160" loading="lazy"><b>Or indoors</b><span>Rather stay in? Play without a map or simply at home.</span></li><li><img src="../assets/how-diploma.webp" alt="" width="160" height="160" loading="lazy"><b>Diploma</b><span>Case solved? You get a diploma with your photos, as a PDF to print.</span></li></ol>
     <div class="tips"><div class="eyebrow">Tips for the grown-up</div><ul><li>One phone per group is enough. With the case code more phones play the same case.</li><li>Read the clues aloud to the whole group: that is the best moment.</li><li>Outside, stay on the pavement. An adult always walks along.</li><li>Allow 40 to 75 minutes, cake break included.</li></ul></div></section>
-  <section class="sec" id="proSec"><h2>Pro and group pass</h2><div class="probox" id="proBox"></div></section>
+  <section class="sec" id="proSec"><span class="kick">Play more</span><h2>Pro and group pass</h2><div class="probox" id="proBox"></div></section>
 </main>
 <footer class="foot">
-  <img src="../assets/logo-mark-wink.webp" alt="" width="602" height="582" loading="lazy">
+  <img src="../assets/logo-mark-wink.webp" alt="" width="576" height="472" loading="lazy">
   <p>Made in the Netherlands, with love for little sleuths.</p>
   <a class="adult" href="https://www.murderwalk.com/">For grown-ups: Murder Walk →</a>
   <div class="links"><a href="mailto:kellievandekerkhof@gmail.com">Contact</a><button type="button" id="bPriv">Privacy</button></div>
@@ -54,7 +54,7 @@
 <div class="sheet" id="sheet" hidden><div class="paper" id="sheetBody" role="dialog" aria-modal="true"></div></div>
 <div id="toast" hidden role="status"></div>
 <script src="../shared/platform.js?v=mm1"></script>
-<script src="../shared/catalog.js?v=mm1"></script>
+<script src="../shared/catalog.js?v=mm2"></script>
 <script src="../shared/hub.js?v=1"></script>
 </body>
 </html>

diff --git a/minimystery/en/the-light-thief.html b/minimystery/en/the-light-thief.html
@@ -126,7 +126,7 @@
   <div id="toast" hidden></div>
 </div>
 <script src="../shared/platform.js?v=mm1"></script>
-<script src="../shared/catalog.js?v=mm1"></script>
+<script src="../shared/catalog.js?v=mm2"></script>
 <script src="../shared/walk.js?v=3"></script>
 <script src="../shared/ort/ort.wasm.min.js?v=1"></script>
 <script src="../games/fotojacht/model/labels.js?v=1"></script>

diff --git a/minimystery/en/officer-for-a-day.html b/minimystery/en/officer-for-a-day.html
@@ -125,7 +125,7 @@
   <div id="toast" hidden></div>
 </div>
 <script src="../shared/platform.js?v=mm1"></script>
-<script src="../shared/catalog.js?v=mm1"></script>
+<script src="../shared/catalog.js?v=mm2"></script>
 <script src="../shared/walk.js?v=3"></script>
 <script src="../games/agent/data-en.js?v=2"></script>
 <script src="../games/agent/game.js?v=4"></script>

diff --git a/minimystery/de-lichtjesdief.html b/minimystery/de-lichtjesdief.html
@@ -126,7 +126,7 @@
   <div id="toast" hidden></div>
 </div>
 <script src="shared/platform.js?v=mm1"></script>
-<script src="shared/catalog.js?v=mm1"></script>
+<script src="shared/catalog.js?v=mm2"></script>
 <script src="shared/walk.js?v=3"></script>
 <script src="shared/ort/ort.wasm.min.js?v=1"></script>
 <script src="games/fotojacht/model/labels.js?v=1"></script>

diff --git a/minimystery/en/the-secret-of-pony-fluff.html b/minimystery/en/the-secret-of-pony-fluff.html
@@ -128,7 +128,7 @@
   <div id="toast" hidden></div>
 </div>
 <script src="../shared/platform.js?v=mm1"></script>
-<script src="../shared/catalog.js?v=mm1"></script>
+<script src="../shared/catalog.js?v=mm2"></script>
 <script src="../shared/walk.js?v=3"></script>
 <script src="../games/pony/data-en.js?v=1"></script>
 <script src="../games/pony/game.js?v=4"></script>

diff --git a/minimystery/agent-voor-een-dag.html b/minimystery/agent-voor-een-dag.html
@@ -125,7 +125,7 @@
   <div id="toast" hidden></div>
 </div>
 <script src="shared/platform.js?v=mm1"></script>
-<script src="shared/catalog.js?v=mm1"></script>
+<script src="shared/catalog.js?v=mm2"></script>
 <script src="shared/walk.js?v=3"></script>
 <script src="games/agent/data-nl.js?v=2"></script>
 <script src="games/agent/game.js?v=4"></script>

diff --git a/minimystery/het-geheim-van-pony-pluis.html b/minimystery/het-geheim-van-pony-pluis.html
@@ -128,7 +128,7 @@
   <div id="toast" hidden></div>
 </div>
 <script src="shared/platform.js?v=mm1"></script>
-<script src="shared/catalog.js?v=mm1"></script>
+<script src="shared/catalog.js?v=mm2"></script>
 <script src="shared/walk.js?v=3"></script>
 <script src="games/pony/data-nl.js?v=1"></script>
 <script src="games/pony/game.js?v=4"></script>
